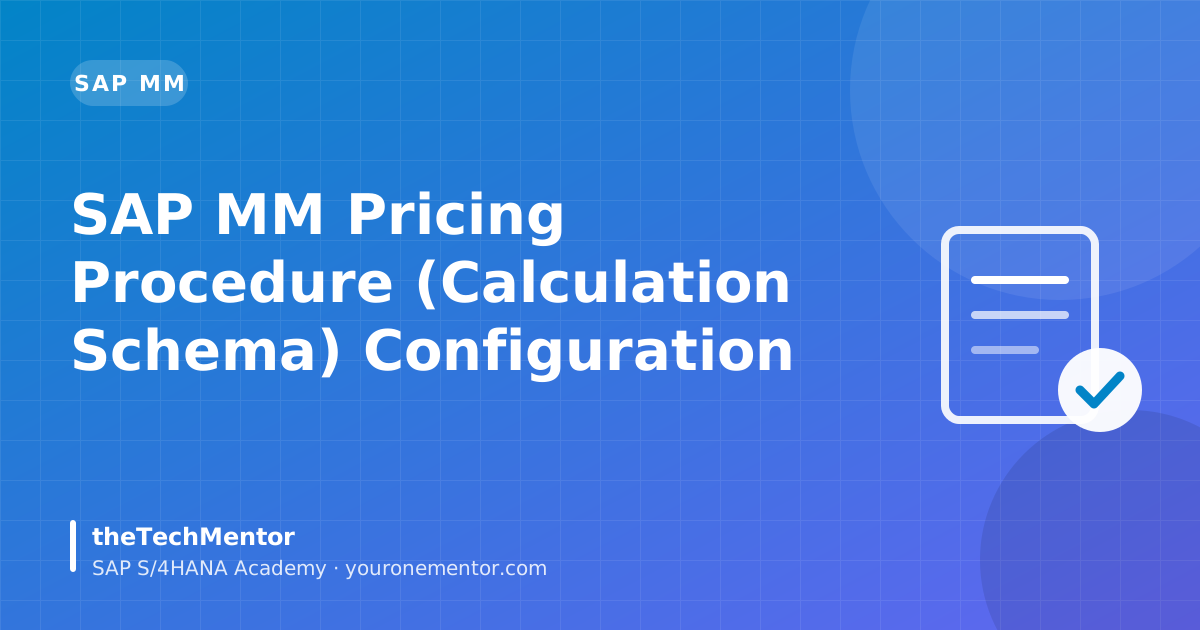
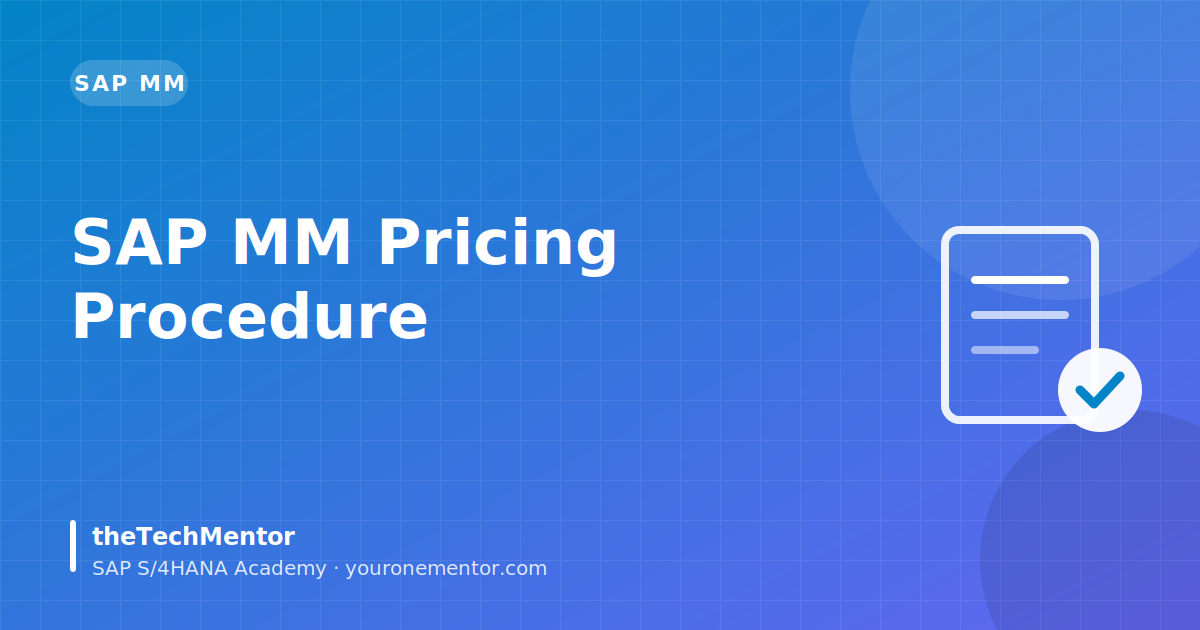
feat(blog): automated article (refresh)

diff --git a/blog/sap-mm-pricing-procedure-schema-s4hana-guide.html b/blog/sap-mm-pricing-procedure-schema-s4hana-guide.html
@@ -3,95 +3,99 @@
 <head>
   <meta charset="UTF-8" />
   <meta name="viewport" content="width=device-width, initial-scale=1.0" />
-  <title>SAP MM Pricing Procedure (Calculation Schema) Configuration</title>
-  <meta name="description" content="Step-by-step configuration of Condition Types, Access Sequences, Calculation Schemata, and Schema Determination in SAP MM." />
+  <title>SAP MM Pricing Procedure: Calculation Schema Guide</title>
+  <meta name="description" content="Learn SAP MM pricing procedure configuration: condition types, access sequences, calculation schema RM0000 and schema determination in S/4HANA. Read the." />
   <link rel="canonical" href="https://youronementor.com/blog/sap-mm-pricing-procedure-schema-s4hana-guide.html" />
-  <meta property="og:title" content="SAP MM Pricing Procedure (Calculation Schema) Configuration Guide" />
-  <meta property="og:description" content="Step-by-step configuration of Condition Types, Access Sequences, Calculation Schemata, and Schema Determination in SAP MM." />
+  <meta name="robots" content="index,follow,max-image-preview:large" />
+  <meta property="og:type" content="article" />
+  <meta property="og:url" content="https://youronementor.com/blog/sap-mm-pricing-procedure-schema-s4hana-guide.html" />
+  <meta property="og:title" content="SAP MM Pricing Procedure (Calculation Schema) Configuration Guide for S/4HANA" />
+  <meta property="og:description" content="Learn SAP MM pricing procedure configuration: condition types, access sequences, calculation schema RM0000 and schema determination in S/4HANA. Read the." />
   <meta property="og:image" content="https://youronementor.com/blog/covers/sap-mm-pricing-procedure-schema-s4hana-guide.png" />
+  <meta property="og:site_name" content="theTechMentor" />
+  <meta name="twitter:card" content="summary_large_image" />
+  <meta property="article:published_time" content="2026-11-07" />
+  <meta property="article:modified_time" content="2026-11-07" />
   <link rel="preconnect" href="https://fonts.googleapis.com" />
   <link rel="preconnect" href="https://fonts.gstatic.com" crossorigin />
-  <link rel="stylesheet" href="https://fonts.googleapis.com/css2?family=Inter:wght@400;500;600;700;800&family=Space+Grotesk:wght@500;600;700&display=swap" />
-  <link rel="stylesheet" href="../styles.css" />
-  <link rel="stylesheet" href="blog.css" />
-  <script src="https://checkout.razorpay.com/v1/checkout.js"></script>
-  <script type="application/ld+json">[{"@context": "https://schema.org", "@type": "Article", "headline": "SAP MM Pricing Procedure (Calculation Schema) Configuration Guide", "description": "Step-by-step configuration of Condition Types, Access Sequences, Calculation Schemata, and Schema Determination in SAP MM.", "image": "https://youronementor.com/images/og-cover.png", "author": {"@type": "Person", "name": "Anshuman Behuria", "url": "https://www.linkedin.com/in/anshuman-behuria-946860130"}, "publisher": {"@type": "Organization", "name": "theTechMentor", "url": "https://youronementor.com"}, "mainEntityOfPage": "https://youronementor.com/blog/sap-mm-pricing-procedure-schema-s4hana-guide.html"}, {"@context": "https://schema.org", "@type": "BreadcrumbList", "itemListElement": [{"@type": "ListItem", "position": 1, "name": "Home", "item": "https://youronementor.com/"}, {"@type": "ListItem", "position": 2, "name": "Blog", "item": "https://youronementor.com/blog/"}, {"@type": "ListItem", "position": 3, "name": "SAP MM Pricing Procedure (Calculation Schema) Configuration Guide", "item": "https://youronementor.com/blog/sap-mm-pricing-procedure-schema-s4hana-guide.html"}]}]</script>
-  <meta name="robots" content="noindex,follow" />
-  <link rel="stylesheet" href="ai-article.css" />
-  <link rel="stylesheet" href="../theme-2030.css?v=1" />
+  <link rel="stylesheet" href="https://fonts.googleapis.com/css2?family=Inter:wght@400;500;600;700&family=Plus+Jakarta+Sans:wght@600;700;800&display=swap" />
+  <link rel="icon" href="../images/logo-mark.svg" type="image/svg+xml" />
+  <link rel="stylesheet" href="../site.css?v=1" />
+  <link rel="stylesheet" href="ai-article.css?v=3" />
+  <script type="application/ld+json">[{"@context": "https://schema.org", "@type": "Article", "headline": "SAP MM Pricing Procedure (Calculation Schema) Configuration Guide for S/4HANA", "description": "Learn SAP MM pricing procedure configuration: condition types, access sequences, calculation schema RM0000 and schema determination in S/4HANA. Read the.", "image": "https://youronementor.com/blog/covers/sap-mm-pricing-procedure-schema-s4hana-guide.png", "datePublished": "2026-11-07", "dateModified": "2026-11-07", "author": {"@type": "Person", "name": "Anshuman Behuria", "url": "https://www.linkedin.com/in/anshuman-behuria-946860130"}, "publisher": {"@type": "Organization", "name": "theTechMentor", "url": "https://youronementor.com"}, "mainEntityOfPage": "https://youronementor.com/blog/sap-mm-pricing-procedure-schema-s4hana-guide.html", "wordCount": 1953}, {"@context": "https://schema.org", "@type": "BreadcrumbList", "itemListElement": [{"@type": "ListItem", "position": 1, "name": "Home", "item": "https://youronementor.com/"}, {"@type": "ListItem", "position": 2, "name": "Blog", "item": "https://youronementor.com/blog/"}, {"@type": "ListItem", "position": 3, "name": "SAP MM Pricing Procedure (Calculation Schema) Configuration Guide for S/4HANA", "item": "https://youronementor.com/blog/sap-mm-pricing-procedure-schema-s4hana-guide.html"}]}, {"@context": "https://schema.org", "@type": "FAQPage", "mainEntity": [{"@type": "Question", "name": "What is the calculation schema in SAP MM?", "acceptedAnswer": {"@type": "Answer", "text": "It is the MM equivalent of the SD pricing procedure. It is an ordered list of condition types with rules for base, subtotals, account keys and accruals, and it determines how the net price of a purchase order item is calculated. The standard schema is RM0000."}}, {"@type": "Question", "name": "Which T-code is used to define the calculation schema in MM?", "acceptedAnswer": {"@type": "Answer", "text": "Use M/08 or the SPRO path Materials Management > Purchasing > Conditions > Define Price Determination Process > Define Calculation Schema. Related codes include M/06 for condition types and M/07 for access sequences."}}, {"@type": "Question", "name": "How does SAP determine the pricing schema in a purchase order?", "acceptedAnswer": {"@type": "Answer", "text": "Through schema determination, which combines the purchasing organization's schema group, the vendor's schema group and, optionally, the document's schema group. The combination is assigned to a calculation schema in customizing."}}, {"@type": "Question", "name": "Why is my PO price zero even though a condition record exists?", "acceptedAnswer": {"@type": "Answer", "text": "Common reasons are an expired validity date, a vendor in a different schema group, a condition type missing from the schema, or an access sequence that does not match the record's key. Use the Analysis function on the condition screen to see the exact result."}}, {"@type": "Question", "name": "Where do I maintain condition records in purchasing?", "acceptedAnswer": {"@type": "Answer", "text": "Use MEK1, MEK2 and MEK3 to create, change and display conditions, or maintain them directly in purchasing info records (ME11/ME12) and contracts. In S/4HANA, Fiori apps are also available."}}, {"@type": "Question", "name": "Is MM pricing different in S/4HANA?", "acceptedAnswer": {"@type": "Answer", "text": "The condition technique and customizing paths remain the same. The main differences are that vendors are maintained as Business Partners and that many users work in Fiori apps instead of classic GUI transactions."}}]}]</script>
   <script src="../site-config.js"></script>
   <script src="../tracking.js"></script>
-  <link rel="icon" href="../images/logo-mark.svg" type="image/svg+xml" />
 </head>
-<body>
+<body class="ai-page" style="--accent:#0284c7;--accent2:#6366f1;--accent-soft:#e0f2fe;">
   <div class="reading-progress" id="reading-progress-bar"></div>
-
   <header class="header">
-    <nav class="nav container">
-      <a href="../index.html" class="logo">
-        <img class="logo-img" src="../images/logo-mark.svg" width="32" height="32" alt="" />
-        <span class="logo-text">the<b>Tech</b>Mentor</span>
-      </a>
+    <nav class="nav wrap" aria-label="Main">
+      <a href="../index.html" class="brand" aria-label="theTechMentor home"><img src="../images/logo-mark.svg" alt="" width="36" height="36" /><span>the<b>Tech</b>Mentor</span></a>
+      <button class="nav-toggle" aria-label="Open menu" aria-expanded="false"><span></span><span></span><span></span></button>
       <ul class="nav-links">
         <li><a href="../index.html#courses">Courses</a></li>
         <li><a href="../index.html#paths">Career paths</a></li>
-        <li><a href="index.html" style="color:var(--blog-accent-light); font-weight:600;">Blog Hub</a></li>
-        <li><a href="../index.html#advisor">Free counselling</a></li>
-        <li><a href="../index.html#courses" class="btn btn-sm">Explore courses</a></li>
+        <li><a href="index.html">Blog</a></li>
+        <li><a href="../index.html#advisor" class="btn btn-ghost btn-sm">Free counselling</a></li>
+        <li><a href="../index.html#courses" class="btn btn-primary btn-sm">Explore courses</a></li>
       </ul>
     </nav>
   </header>
 
-  <main class="blog-article-wrap">
-    <div class="blog-breadcrumb">
+  <main class="blog-article-wrap ai-wrap">
+    <nav class="blog-breadcrumb" aria-label="Breadcrumb">
       <a href="../index.html">Home</a> &gt; <a href="index.html">Blog</a> &gt; <span>Tutorial</span>
-    </div>
+    </nav>
 
-    <header class="blog-header">
-      <span class="sp-badge sp-badge--teal" style="margin-bottom:1rem; display:inline-block;">SAP MM Blueprint</span>
-      <h1 class="blog-title">SAP MM Pricing Procedure (Calculation Schema) Configuration Guide</h1>
-      
+    <header class="ai-hero">
+      <span class="ai-pill">SAP MM TUTORIAL</span>
+      <h1 class="blog-title">SAP MM Pricing Procedure (Calculation Schema) Configuration Guide for S/4HANA</h1>
+      <p class="ai-dek">Configure the SAP MM pricing procedure end to end: field catalog, condition tables, access sequences, condition types, calculation schema and schema determination, with errors and interview questions.</p>
       <div class="blog-meta">
         <div class="author-chip">
-          <img class="author-photo" src="../images/anshuman-behuria-96.jpg" alt="Anshuman Behuria" width="40" height="40" style="width:40px;height:40px;border-radius:50%;object-fit:cover" />
-          <div class="author-info">
-            <strong>Anshuman Behuria</strong>
-            <span>Lead SAP S/4HANA Trainer</span>
-          </div>
+          <img class="author-photo" src="../images/anshuman-behuria-96.jpg" alt="Anshuman Behuria" width="40" height="40" />
+          <div class="author-info"><strong>Anshuman Behuria</strong><span>Lead SAP Mentor · theTechMentor</span></div>
         </div>
-        <span>•</span>
-        <span>Sep 07, 2026</span>
-        <span>•</span>
-        <span>⏱ 13 min read</span>
+        <span>Updated <time datetime="2026-11-07">Nov 07, 2026</time></span>
       </div>
+      <img class="ai-cover" src="covers/sap-mm-pricing-procedure-schema-s4hana-guide.svg" width="1200" height="630" alt="SAP MM Pricing Procedure (Calculation Schema) Configuration Guide for S/4HANA" />
     </header>
 
-    <article class="article-content">
+    <article class="article-content ai-article">
+      <div class="glance"><div><span>Module</span><strong>SAP MM</strong></div><div><span>Read time</span><strong>9 min</strong></div><div><span>Level</span><strong>Intermediate</strong></div><div class="glance-codes"><span>T-codes covered</span><p><code>MEK1</code><code>ME11</code><code>ME12</code><code>PB00</code><code>RA01</code><code>RB00</code><code>FRB1</code><code>FRC1</code></p></div></div>
 
-      <!-- TARGET METADATA GRID -->
-      <div style="background: #080d14; border: 1px solid #1e293b; border-radius: 10px; padding: 1.5rem; margin-bottom: 2rem; display: grid; grid-template-columns: 1fr 1fr; gap: 1.25rem;">
-        <div style="border-left: 3px solid #0284c7; padding-left: 0.85rem;">
-          <span style="color: #94a3b8; font-size: 0.8rem; font-weight: 700; text-transform: uppercase; display: block;">Target Role:</span>
-          <strong style="color: #fff; font-size: 0.95rem;">SAP MM Functional Lead / Procurement Specialist</strong>
-        </div>
-      </div>
+      <div class="ai-intro"><p>Purchase order prices in SAP do not come from a single field. They are calculated by the condition technique, driven by a calculation schema (the MM name for a pricing procedure). When a PO shows the wrong net price, a freight condition is missing, or a discount is not picked up, the cause nearly always sits somewhere in this chain.</p><p>This guide walks through the SAP MM pricing procedure configuration in the order you would build it: field catalog, condition tables, access sequences, condition types, the calculation schema, and schema determination. You will also see how to test it, which errors to expect, and how interviewers ask about it. The menu paths are the same in ECC and S/4HANA, and I flag the differences where they exist.</p></div>
 
-      <p style="font-size: 1.05rem; line-height: 1.75; color: #cbd5e1; margin-bottom: 2rem;">
-        Mastering S/4HANA supply chain architecture requires deep functional knowledge and practical configuration experience. This technical guide breaks down <strong>SAP MM Pricing Procedure (Calculation Schema) Configuration Guide</strong> with actionable step-by-step blueprints.
-      </p>
+      <div class="ai-box ai-takeaways"><div class="box-label">⚡ Key takeaways</div><ul><li>MM pricing uses the same condition technique as SD: field catalog, condition tables, access sequences, condition types, calculation schema and condition records.</li><li>The standard schema is RM0000 and gross price is PB00; always copy to Z objects instead of changing standard ones.</li><li>The schema is found by combining the purchasing organization schema group, the vendor schema group and optionally a document schema group.</li><li>Use the Analysis button on the PO condition screen to find out why a price is missing.</li><li>Account keys and accruals in the schema link pricing to FI postings through OBYC.</li><li>Changing a schema does not reprice existing POs; update pricing or create new documents.</li></ul></div>
 
-      <h2 style="color: #fff; font-size: 1.5rem; font-weight: 700; margin: 2rem 0 1rem 0; padding-bottom: 0.5rem; border-bottom: 1px solid #1e293b;">1. Understanding Field Catalog, Condition Tables & Access Sequences</h2><p style="color: #cbd5e1; font-size: 1.05rem; line-height: 1.7;">Deep dive into key configuration parameters, best practices, and real-world project insights for Condition Technique.</p><h2 style="color: #fff; font-size: 1.5rem; font-weight: 700; margin: 2rem 0 1rem 0; padding-bottom: 0.5rem; border-bottom: 1px solid #1e293b;">2. Step, Counter, Condition Type, From/To, and Requirement Formulas</h2><p style="color: #cbd5e1; font-size: 1.05rem; line-height: 1.7;">Deep dive into key configuration parameters, best practices, and real-world project insights for Calculation Schema.</p><h2 style="color: #fff; font-size: 1.5rem; font-weight: 700; margin: 2rem 0 1rem 0; padding-bottom: 0.5rem; border-bottom: 1px solid #1e293b;">3. Mapping Purchase Org, Vendor Schema, and Document Schema</h2><p style="color: #cbd5e1; font-size: 1.05rem; line-height: 1.7;">Deep dive into key configuration parameters, best practices, and real-world project insights for Schema Determination.</p><h2 style="color: #fff; font-size: 1.5rem; font-weight: 700; margin: 2rem 0 1rem 0; padding-bottom: 0.5rem; border-bottom: 1px solid #1e293b;">4. Handling Freight Costs, Discounts, and Tax Conditions in Fiori</h2><p style="color: #cbd5e1; font-size: 1.05rem; line-height: 1.7;">Deep dive into key configuration parameters, best practices, and real-world project insights for S/4HANA Enhancements.</p>
+      <div class="flow"><div class="flow-label">Process at a glance</div><ol class="flow-steps"><li><span class="flow-n">1</span><strong>Field catalog &amp; tables</strong><span>Create condition tables with M/03 using fields from the catalog.</span></li><li><span class="flow-n">2</span><strong>Access sequence (M/07)</strong><span>Order tables from most specific to most general.</span></li><li><span class="flow-n">3</span><strong>Condition types (M/06)</strong><span>Copy standard types and link the access sequence.</span></li><li><span class="flow-n">4</span><strong>Calculation schema (M/08)</strong><span>Add steps, From/To, subtotals and account keys.</span></li><li><span class="flow-n">5</span><strong>Schema determination</strong><span>Assign vendor, purchasing org and document groups to the schema.</span></li><li><span class="flow-n">6</span><strong>Test in ME21N</strong><span>Create condition records and check the PO Conditions tab.</span></li></ol></div>
 
-      <!-- TIP CALLOUT -->
-      <div style="background: #0c1929; border-left: 4px solid #0284c7; padding: 1.25rem; border-radius: 6px; margin: 1.75rem 0;">
-        <strong style="color: #38bdf8; font-size: 1.05rem; display: block; margin-bottom: 0.3rem;">💡 CONSULTANT BEST PRACTICE</strong>
-        <p style="color: #cbd5e1; font-size: 0.95rem; margin: 0;">
-          Always validate your configuration in a sandbox environment before transporting customizing requests to Quality/Production.
-        </p>
-      </div>
+      <nav class="ai-box ai-toc" aria-label="Contents"><div class="box-label">📑 In this guide</div><ol><li><a href="#sec-1"><span>01</span>How condition technique works in MM purchasing</a></li><li><a href="#sec-2"><span>02</span>Standard objects you should know before configuring</a></li><li><a href="#sec-3"><span>03</span>Step 1: Field catalog, condition tables and access sequences</a></li><li><a href="#sec-4"><span>04</span>Step 2: Defining condition types</a></li><li><a href="#sec-5"><span>05</span>Step 3: Building the calculation schema</a></li><li><a href="#sec-6"><span>06</span>Step 4: Schema determination</a></li><li><a href="#sec-7"><span>07</span>Testing, freight, discounts and the Fiori experience</a></li><li><a href="#sec-8"><span>08</span>Common errors and troubleshooting</a></li><li><a href="#sec-9"><span>09</span>Interview questions on this topic</a></li><li><a href="#faqs"><span>?</span>Frequently asked questions</a></li></ol></nav>
 
-      <!-- LEAD OPT-IN -->
+      <h2 id="sec-1"><span class="h2-n">01</span>How condition technique works in MM purchasing</h2>
+<p>Condition technique is the mechanism SAP uses to find prices, discounts, surcharges, freight and taxes automatically. In MM it is used in purchasing documents (info records, contracts, scheduling agreements, POs) and also in output determination and some other areas.</p><p>The building blocks are chained together like this:</p><ol><li><strong>Field catalog</strong>: the list of fields that may be used in condition tables.</li><li><strong>Condition table</strong>: a key combination of fields, for example Vendor + Material.</li><li><strong>Access sequence</strong>: an ordered list of condition tables searched for a valid record.</li><li><strong>Condition type</strong>: represents a price element (gross price, discount, freight) and points to an access sequence.</li><li><strong>Calculation schema</strong>: the ordered list of condition types with calculation logic.</li><li><strong>Schema determination</strong>: assigns the schema to the document based on purchasing org, vendor schema group and (optionally) document schema.</li></ol><p>Condition records (maintained in <code>MEK1</code>, <code>MEK1</code> for conditions with validity, or inside info records via <code>ME11</code> / <code>ME12</code>) hold the actual values. Without a record, the access sequence finds nothing and the condition stays empty.</p><aside class="note"><strong>MM vs SD:</strong> The concept is identical to SD pricing, but MM uses application <code>M</code> and usage <code>A</code>, with condition types starting with <code>P</code> (for example <code>PB00</code>) and schemas starting with <code>RM</code>. If you know SD, see our <a href="sap-sd-pricing-procedure-condition-technique-guide.html">SAP SD pricing procedure guide</a> for the sales-side comparison.</aside>
+<h2 id="sec-2"><span class="h2-n">02</span>Standard objects you should know before configuring</h2>
+<p>SAP delivers a working set. In most projects you copy and modify these rather than build from scratch.</p><table><thead><tr><th>Object</th><th>Standard name</th><th>Meaning</th></tr></thead><tbody><tr><td>Calculation schema</td><td><code>RM0000</code></td><td>Standard purchasing schema (also <code>RM1000</code> for some scenarios, check your system)</td></tr><tr><td>Gross price</td><td><code>PB00</code></td><td>Manual/record-based gross price, no tax</td></tr><tr><td>Gross price (with qty relation)</td><td><code>PBXX</code></td><td>Gross price entered manually in PO</td></tr><tr><td>Discount % on net value</td><td><code>RA01</code></td><td>Percentage discount</td></tr><tr><td>Discount absolute</td><td><code>RB00</code></td><td>Absolute discount</td></tr><tr><td>Freight absolute</td><td><code>FRB1</code></td><td>Freight, absolute amount</td></tr><tr><td>Freight %</td><td><code>FRC1</code></td><td>Freight, quantity-based</td></tr><tr><td>Delivery cost / planned</td><td><code>ZB00</code></td><td>Surcharge absolute (verify in your release)</td></tr><tr><td>Input tax</td><td><code>NAVS</code></td><td>Non-deductible input tax</td></tr><tr><td>Tax</td><td><code>JIN1</code> etc.</td><td>India GST: condition types are tax-procedure based (<code>TAXINN</code>)</td></tr></tbody></table><p>Always confirm names in your own system with <code>M/06</code> (condition types) and <code>M/08</code> style views through SPRO, because clients often carry custom Z copies.</p><aside class="tip">Do not edit standard <code>PB00</code> or <code>RM0000</code>. Copy to <code>ZPB0</code> / <code>ZM0000</code> so that upgrades and support packs never overwrite your logic.</aside>
+<h2 id="sec-3"><span class="h2-n">03</span>Step 1: Field catalog, condition tables and access sequences</h2>
+<p>The SPRO path is <code>SPRO → Materials Management → Purchasing → Conditions → Define Price Determination Process</code>. Everything in this section lives under that node.</p><h3>Maintain condition tables</h3><ol><li>Open <em>Maintain Condition Tables</em> (<code>M/03</code> to create, <code>M/04</code> change, <code>M/05</code> display).</li><li>Choose a number in the customer range (501 and above).</li><li>Select fields from the field catalog, for example Vendor, Material, Plant.</li><li>Generate. SAP creates a physical table named <code>A</code> + number (for example <code>A501</code>).</li></ol><p>If a field is missing, add it to the field catalog first in <em>Maintain Field Catalog</em>. Fields must exist in structure <code>KOMG</code> (the communication structure) or be added by an enhancement.</p><h3>Maintain access sequence</h3><ol><li>Open <em>Define Access Sequences</em> (<code>M/07</code>).</li><li>Create a sequence such as <code>ZPB0</code>.</li><li>Under <em>Accesses</em> add tables in priority order: specific first, general last.</li><li>Per access, check the <em>Exclusive</em> flag and map fields under <em>Fields</em>.</li></ol><table><thead><tr><th>Access no.</th><th>Table</th><th>Key</th><th>Purpose</th></tr></thead><tbody><tr><td>10</td><td>Standard <code>A017</code> style</td><td>Vendor / Material / Plant / Info rec. category</td><td>Plant-specific price</td></tr><tr><td>20</td><td>Standard <code>A018</code> style</td><td>Vendor / Material / Info rec. category</td><td>Client-wide price</td></tr><tr><td>30</td><td>Custom <code>A501</code></td><td>Vendor / Material group</td><td>Fallback discount</td></tr></tbody></table><p>Table numbers above are examples of the standard pattern; check your system for the exact numbers.</p><aside class="warning">If the access is marked <em>Exclusive</em> and finds a record, SAP stops searching even if a later access has a better price. Mis-ticking this is a classic cause of unexpected prices.</aside>
+<h2 id="sec-4"><span class="h2-n">04</span>Step 2: Defining condition types</h2>
+<p>Path: <code>SPRO → Materials Management → Purchasing → Conditions → Define Price Determination Process → Define Condition Types</code> (<code>M/06</code>). Always copy an existing type.</p><table><thead><tr><th>Field</th><th>What it controls</th><th>Typical value</th></tr></thead><tbody><tr><td>Access sequence</td><td>Where to search for records</td><td><code>ZPB0</code></td></tr><tr><td>Condition class</td><td>Price, discount/surcharge, taxes</td><td>B = prices, A = discount/surcharge</td></tr><tr><td>Calculation type</td><td>Percentage, quantity, fixed amount, weight</td><td>C = quantity, A = percentage</td></tr><tr><td>Condition category</td><td>Freight, tax, etc.</td><td>Blank, or <code>B</code> for freight</td></tr><tr><td>Plus/minus</td><td>Discount (negative) or surcharge (positive)</td><td>A = negative only</td></tr><tr><td>Manual entries / header &amp; item condition</td><td>Whether users can enter it in the PO</td><td>Item condition ticked</td></tr><tr><td>Scale basis</td><td>Value or quantity scale</td><td>B = value scale, C = quantity</td></tr></tbody></table><aside class="tip">For a delivery cost (freight) that should be planned and then invoiced via <code>MIRO</code>, tick the <em>delivery costs</em> category and set the condition so that it is accrued at goods receipt. Without this, freight posts at invoice only.</aside><p>Also set <em>Group condition</em>, <em>Rounding rule</em>, and the validity default. Use condition categories carefully, because they change posting behaviour in valuation, not just pricing.</p>
+<h2 id="sec-5"><span class="h2-n">05</span>Step 3: Building the calculation schema</h2>
+<p>Path: <code>SPRO → Materials Management → Purchasing → Conditions → Define Price Determination Process → Define Calculation Schema</code> (<code>M/08</code>). Copy <code>RM0000</code> to <code>ZM0000</code>, then open <em>Control</em>.</p><p>Each line is a step in the calculation. The important columns:</p><table><thead><tr><th>Column</th><th>Meaning</th></tr></thead><tbody><tr><td>Step / Counter</td><td>Sequence of the line; counter allows several condition types on the same step</td></tr><tr><td>Condition type</td><td>The type to be determined</td></tr><tr><td>From / To</td><td>Reference to earlier steps used as a base for the calculation</td></tr><tr><td>Manual</td><td>Only entered by hand, not determined automatically</td></tr><tr><td>Required</td><td>Mandatory condition</td></tr><tr><td>Statistical</td><td>Shown but does not alter net value</td></tr><tr><td>Subtotal</td><td>Stores amount in a field (for example, to be used in a later formula)</td></tr><tr><td>Requirement / Alt. calc. type / Alt. cond. base value</td><td>Routine numbers for logic</td></tr><tr><td>Account key / Accruals</td><td>Posting key for FI/MM, used with <code>OBYC</code></td></tr></tbody></table><h3>Worked example</h3><p>A client buys steel rods. Gross price is ₹100 per kg for 1,000 kg. The vendor gives a 5% discount and charges ₹2,000 freight, and 18% GST applies.</p><table><thead><tr><th>Step</th><th>Cond. type</th><th>From</th><th>Value</th><th>Result</th></tr></thead><tbody><tr><td>10</td><td><code>PBXX</code> / <code>PB00</code></td><td></td><td>₹100 × 1,000</td><td>₹1,00,000</td></tr><tr><td>20</td><td><code>RA01</code></td><td>10</td><td>-5%</td><td>-₹5,000</td></tr><tr><td>100</td><td>Subtotal (net)</td><td>10 to 20</td><td></td><td>₹95,000</td></tr><tr><td>110</td><td><code>FRB1</code></td><td></td><td>₹2,000</td><td>₹2,000 (accrued / delivery cost)</td></tr><tr><td>200</td><td>Effective value</td><td>100 to 110</td><td></td><td>₹97,000</td></tr><tr><td>300</td><td><code>JIN1</code>-type GST</td><td>100</td><td>18%</td><td>₹17,100</td></tr></tbody></table><p>Note that tax in India is handled through the tax procedure (<code>TAXINN</code>), not the main MM schema, so GST conditions are calculated from the base you define in the tax procedure. Treat the last row as an illustration of the base.</p><aside class="interview">"What is the difference between a subtotal and a statistical condition?" A subtotal only stores an intermediate value for later steps; a statistical condition is displayed but excluded from the net price and from posting.</aside>
+<h2 id="sec-6"><span class="h2-n">06</span>Step 4: Schema determination</h2>
+<p>The schema must be found automatically on the PO. Configuration is under <code>SPRO → Materials Management → Purchasing → Conditions → Define Price Determination Process → Define Schema Determination</code>.</p><ol><li><strong>Define schema group, vendor</strong> (<code>OLMEKV</code> style path): create a group such as <code>Z1</code>.</li><li><strong>Assign the group to the vendor</strong> in the vendor master, Purchasing data (<code>XK02</code> in ECC, <code>BP</code> in S/4HANA), field <em>Schema Group, Vendor</em>.</li><li><strong>Define schema group, purchasing organization</strong> and assign it to the purchasing organization.</li><li><strong>Define the schema group for the document</strong> only if you need to vary the schema by document type. Assign the schema group to the document type (for example <code>NB</code>) in <code>OMET</code> style document settings.</li><li><strong>Assign schema to the combination</strong> using <em>Calculation Schema → Schema Determination → Determine the Schema</em>: purchasing org schema group + vendor schema group (+ document schema).</li></ol><table><thead><tr><th>Purch. org schema grp</th><th>Vendor schema grp</th><th>Schema</th></tr></thead><tbody><tr><td><code>01</code></td><td><code>Z1</code> (domestic)</td><td><code>ZM0000</code></td></tr><tr><td><code>01</code></td><td><code>Z2</code> (import)</td><td><code>ZMIMP</code></td></tr></tbody></table><aside class="note"><strong>S/4HANA:</strong> The vendor is a Business Partner, so the schema group field is maintained in <code>BP</code> under the vendor purchasing role. Customizing paths remain unchanged.</aside><p>Schema determination in the purchase order cycle works together with the rest of procurement; see <a href="configure-purchase-order-cycle-s4hana.html">how to configure a complete PO cycle</a> for the surrounding steps.</p>
+<h2 id="sec-7"><span class="h2-n">07</span>Testing, freight, discounts and the Fiori experience</h2>
+<h3>Creating condition records</h3><p>Use <code>MEK1</code> (create), <code>MEK2</code> (change), <code>MEK3</code> (display) for conditions with validity periods. In S/4HANA, the Fiori app <em>Manage Purchasing Info Records</em> and the Manage Purchase Contracts app also maintain conditions, though condition types and access sequences are still configured in SPRO.</p><h3>Test procedure</h3><ol><li>Create a vendor with schema group <code>Z1</code>.</li><li>Maintain a <code>PB00</code> record in <code>MEK1</code> or info record <code>ME11</code> for the material.</li><li>Create a PO in <code>ME21N</code> (or Fiori <em>Manage Purchase Orders</em>).</li><li>In the item, open the <em>Conditions</em> tab and check that the gross price, discount and freight lines appear.</li><li>Use the analysis function (<em>Analysis</em> button on the condition screen) to see which access found a record, or why none did.</li></ol><aside class="tip">The <em>Analysis</em> button is the fastest debugging tool. It lists every access, its table, and the result for each condition type, so you can see the exact missing key.</aside><h3>Posting impact</h3><p>Condition types feeding delivery costs or price differences post through account keys, such as <code>FRE</code> (freight) and <code>FR1</code>. These use <code>OBYC</code>. For details, see <a href="sap-mm-obyc-account-determination-s4hana-masterclass.html">our OBYC masterclass</a>.</p>
+<h2 id="sec-8"><span class="h2-n">08</span>Common errors and troubleshooting</h2>
+<table><thead><tr><th>Symptom / message</th><th>Likely cause</th><th>Fix</th></tr></thead><tbody><tr><td>Price is zero; PO warning "Net price = 0" (message <code>06 023</code>)</td><td>No valid condition record or wrong access</td><td>Use condition Analysis, create the record in <code>MEK1</code> or info record</td></tr><tr><td>"Calculation schema not found" / no schema in PO header</td><td>Schema determination incomplete</td><td>Check vendor schema group, purchasing org group and the assignment table</td></tr><tr><td>Condition type not shown in PO</td><td>Not in the schema, or marked statistical/manual</td><td>Add it to the schema in <code>M/08</code></td></tr><tr><td>Discount calculated on wrong base</td><td>Incorrect From/To references</td><td>Fix the From column or use a subtotal</td></tr><tr><td>Record exists but not found</td><td>Validity dates, vendor schema group or field mapping in the access</td><td>Check validity and the access Fields view</td></tr><tr><td>Freight not accrued</td><td>Missing account key / accrual setting</td><td>Set account key (for example <code>FRE</code>) and accrual in the schema line</td></tr></tbody></table><aside class="warning">Changing a calculation schema does not update existing POs automatically. Reprice open documents using <em>Update pricing</em> on the condition screen or create new documents.</aside>
+<h2 id="sec-9"><span class="h2-n">09</span>Interview questions on this topic</h2>
+<ol><li><strong>What are the components of condition technique?</strong> Field catalog, condition tables, access sequences, condition types, calculation schema and condition records.</li><li><strong>How does SAP find the schema in a PO?</strong> Through the vendor schema group, the purchasing org schema group and, optionally, the document schema group.</li><li><strong>What does the Exclusive indicator do?</strong> It stops the access sequence at the first successful access.</li><li><strong>Where do you maintain a condition record with validity?</strong> <code>MEK1</code>, or in the info record or contract.</li><li><strong>How do you add a new freight condition?</strong> Copy <code>FRB1</code>, assign the access sequence, add to the schema, and set account keys.</li></ol><aside class="interview">Interviewers often give a scenario: "A PO has no price even though info record exists." Walk through schema determination, the access sequence, validity, and the Analysis function. More such questions are in our <a href="top-30-sap-mm-interview-questions-2026.html">Top 30 SAP MM interview questions</a>.</aside><p>If you are building your SAP MM skills step by step, practising these configurations on an S/4HANA sandbox is the quickest way to make them stick. Our <a href="how-to-master-sap-mm-in-3-months.html">3-month SAP MM plan</a> shows where pricing fits in.</p>
+
+
+      
+
       <div class="ai-optin" id="lead-optin">
+        <div class="optin-icon">🎁</div>
         <strong>Free: SAP MM &amp; EWM video course + interview kit</strong>
         <p>Get the 40+ lesson playlist, the most-asked interview questions and our 90-day roadmap on WhatsApp.</p>
         <form class="ttm-optin-form" data-source="blog:sap-mm-pricing-procedure-schema-s4hana-guide">
@@ -103,22 +107,36 @@
         <div class="ttm-optin-done" hidden></div>
       </div>
 
-      <!-- COURSE CTA CARD -->
-      <div class="blog-course-cta">
-        <span class="tier-badge" style="background:#f59e0b; color:#000; font-weight:700; padding:0.2rem 0.6rem; border-radius:4px; font-size:0.75rem; text-transform:uppercase;">Accelerate Your Career</span>
-        <h3>Master SAP MM &amp; EWM S/4HANA Live with Anshuman Behuria</h3>
-        <p>Get 24/7 server access, real project blueprints, and 1-on-1 interview preparation.</p>
+      <h2 id="faqs"><span class="h2-n">?</span>Frequently asked questions</h2>
+      <details class="ai-faq"><summary>What is the calculation schema in SAP MM?</summary><p>It is the MM equivalent of the SD pricing procedure. It is an ordered list of condition types with rules for base, subtotals, account keys and accruals, and it determines how the net price of a purchase order item is calculated. The standard schema is RM0000.</p></details><details class="ai-faq"><summary>Which T-code is used to define the calculation schema in MM?</summary><p>Use M/08 or the SPRO path Materials Management &gt; Purchasing &gt; Conditions &gt; Define Price Determination Process &gt; Define Calculation Schema. Related codes include M/06 for condition types and M/07 for access sequences.</p></details><details class="ai-faq"><summary>How does SAP determine the pricing schema in a purchase order?</summary><p>Through schema determination, which combines the purchasing organization&#x27;s schema group, the vendor&#x27;s schema group and, optionally, the document&#x27;s schema group. The combination is assigned to a calculation schema in customizing.</p></details><details class="ai-faq"><summary>Why is my PO price zero even though a condition record exists?</summary><p>Common reasons are an expired validity date, a vendor in a different schema group, a condition type missing from the schema, or an access sequence that does not match the record&#x27;s key. Use the Analysis function on the condition screen to see the exact result.</p></details><details class="ai-faq"><summary>Where do I maintain condition records in purchasing?</summary><p>Use MEK1, MEK2 and MEK3 to create, change and display conditions, or maintain them directly in purchasing info records (ME11/ME12) and contracts. In S/4HANA, Fiori apps are also available.</p></details><details class="ai-faq"><summary>Is MM pricing different in S/4HANA?</summary><p>The condition technique and customizing paths remain the same. The main differences are that vendors are maintained as Business Partners and that many users work in Fiori apps instead of classic GUI transactions.</p></details>
+
+      <div class="related"><div class="flow-label">Keep learning</div><div class="rel-grid"><a class="rel-card" href="sap-mm-split-valuation-configuration-step-by-step.html"><img src="covers/sap-mm-split-valuation-configuration-step-by-step.svg" alt="" loading="lazy" /><span>SAP MM Split Valuation Configuration: S/4HANA Inventory Valuation Masterclass</span></a><a class="rel-card" href="sap-s4hana-universal-journal-acdoca-guide.html"><img src="covers/sap-s4hana-universal-journal-acdoca-guide.svg" alt="" loading="lazy" /><span>SAP S/4HANA Universal Journal (ACDOCA): Architecture &amp; Configuration Guide</span></a><a class="rel-card" href="sap-sd-pricing-procedure-condition-technique-guide.html"><img src="covers/sap-sd-pricing-procedure-condition-technique-guide.svg" alt="" loading="lazy" /><span>SAP SD Pricing Procedure &amp; Condition Technique: Complete Step-by-Step Guide</span></a></div></div>
+
+      <div class="blog-course-cta ai-cta">
+        <h3>Learn SAP hands-on with theTechMentor</h3>
+        <p>Live weekend batches or self-paced videos, with S/4HANA practice server access and interview preparation.</p>
         <div class="blog-cta-actions">
-          <button type="button" class="btn btn-primary razorpay-link" data-amount="10999" data-program="MM + EWM Self-Paced Bundle">
-            Get Complete Bundle — ₹10,999 ↗
-          </button>
-          <a href="../index.html#courses" class="btn btn-outline">View Batches</a>
+          <a href="../index.html#pricing" class="btn btn-primary">See programs &amp; fees</a>
+          <a href="../index.html#enroll" class="btn btn-outline">Book a free 15-min call</a>
         </div>
       </div>
-
     </article>
   </main>
-  <script src="../script.js?v=5" defer></script>
+
+  <footer class="footer">
+    <div class="wrap footer-grid">
+      <div class="footer-brand">
+        <a href="../index.html" class="brand brand-light"><img src="../images/logo-mark.svg" alt="" width="32" height="32" /><span>the<b>Tech</b>Mentor</span></a>
+        <p>Online SAP S/4HANA academy for logistics, procurement and warehouse careers.</p>
+      </div>
+      <div><h4>Courses</h4><ul><li><a href="../index.html#courses">All courses</a></li><li><a href="../index.html#paths">Career paths</a></li><li><a href="../index.html#formats">Live vs self-paced</a></li></ul></div>
+      <div><h4>Resources</h4><ul><li><a href="index.html">Blog</a></li><li><a href="../index.html#faq">FAQ</a></li><li><a href="../index.html#advisor">Free counselling</a></li></ul></div>
+      <div><h4>Contact</h4><ul><li><a href="mailto:info@youronementor.com">info@youronementor.com</a></li><li><a href="https://wa.me/917848942021" target="_blank" rel="noopener noreferrer">WhatsApp +91 78489 42021</a></li></ul></div>
+      <div><h4>Legal</h4><ul><li><a href="../privacy.html">Privacy</a></li><li><a href="../terms.html">Terms</a></li><li><a href="../refund.html">Refunds</a></li></ul></div>
+    </div>
+    <div class="wrap footer-bottom"><p>© 2026 theTechMentor. SAP and S/4HANA are trademarks of SAP SE; theTechMentor is not affiliated with SAP SE.</p></div>
+  </footer>
   <script src="blog-leads.js"></script>
+  <script>document.querySelector(".nav-toggle")?.addEventListener("click",function(){var l=document.querySelector(".nav-links");var o=l.classList.toggle("open");this.setAttribute("aria-expanded",String(o));});</script>
 </body>
 </html>

diff --git a/blog/index.html b/blog/index.html
@@ -205,7 +205,7 @@
           <div class="blog-thumb" style="background:#0b1220 url('covers/sap-mm-pricing-procedure-schema-s4hana-guide.svg') center/cover no-repeat;"></div>
           <div class="blog-body">
             <span class="blog-post-badge blog-post-badge--teal">SAP MM BLUEPRINT</span>
-            <h2 class="blog-post-title">SAP MM Pricing Procedure (Calculation Schema) Configuration Guide</h2>
+            <h2 class="blog-post-title">SAP MM Pricing Procedure (Calculation Schema) Configuration Guide for S/4HANA</h2>
             <div class="blog-meta-line">By Anshuman Behuria &middot; 13 min read &middot; Sep 05, 2026</div>
             <a href="sap-mm-pricing-procedure-schema-s4hana-guide.html" class="blog-read-link">Read article &amp; join discussion &rarr;</a>
           </div>

diff --git a/blog/custom-blogs.js b/blog/custom-blogs.js
@@ -278,7 +278,7 @@ window.TTM_CUSTOM_BLOGS = window.TTM_CUSTOM_BLOGS || [
   },
   {
     id: "post_1788594806242",
-    title: "SAP MM Pricing Procedure (Calculation Schema) Configuration Guide",
+    title: "SAP MM Pricing Procedure (Calculation Schema) Configuration Guide for S/4HANA",
     slug: "sap-mm-pricing-procedure-schema-s4hana-guide",
     category: "Tutorial",
     readTime: "13 min read",

diff --git a/docs/SCREENSHOTS-TODO.md b/docs/SCREENSHOTS-TODO.md
@@ -25,3 +25,11 @@ Folder: `images/blog/sap-s4hana-o2c-process-fi-vkoa/`
 - [ ] 03: VKOA: Configuration screen for condition type KOFI, showing access sequence and condition table.
 - [ ] 04: OVG6: Access Sequence for Account Determination, detailing tables used.
 - [ ] 05: VOV6: Item Category determination for a sales order type.
+
+## SAP MM Pricing Procedure (Calculation Schema) Configuration Guide for S/4HANA
+Folder: `images/blog/sap-mm-pricing-procedure-schema-s4hana-guide/`
+- [ ] 01: M/08 Define Calculation Schema: control screen of ZM0000 showing steps, From/To and account keys
+- [ ] 02: M/07 access sequence ZPB0 with accesses and the Exclusive flag
+- [ ] 03: M/06 condition type PB00 detail screen showing access sequence and calculation type
+- [ ] 04: ME21N item Conditions tab showing PB00, RA01 and freight lines
+- [ ] 05: Condition Analysis screen listing accesses that found or missed a record
